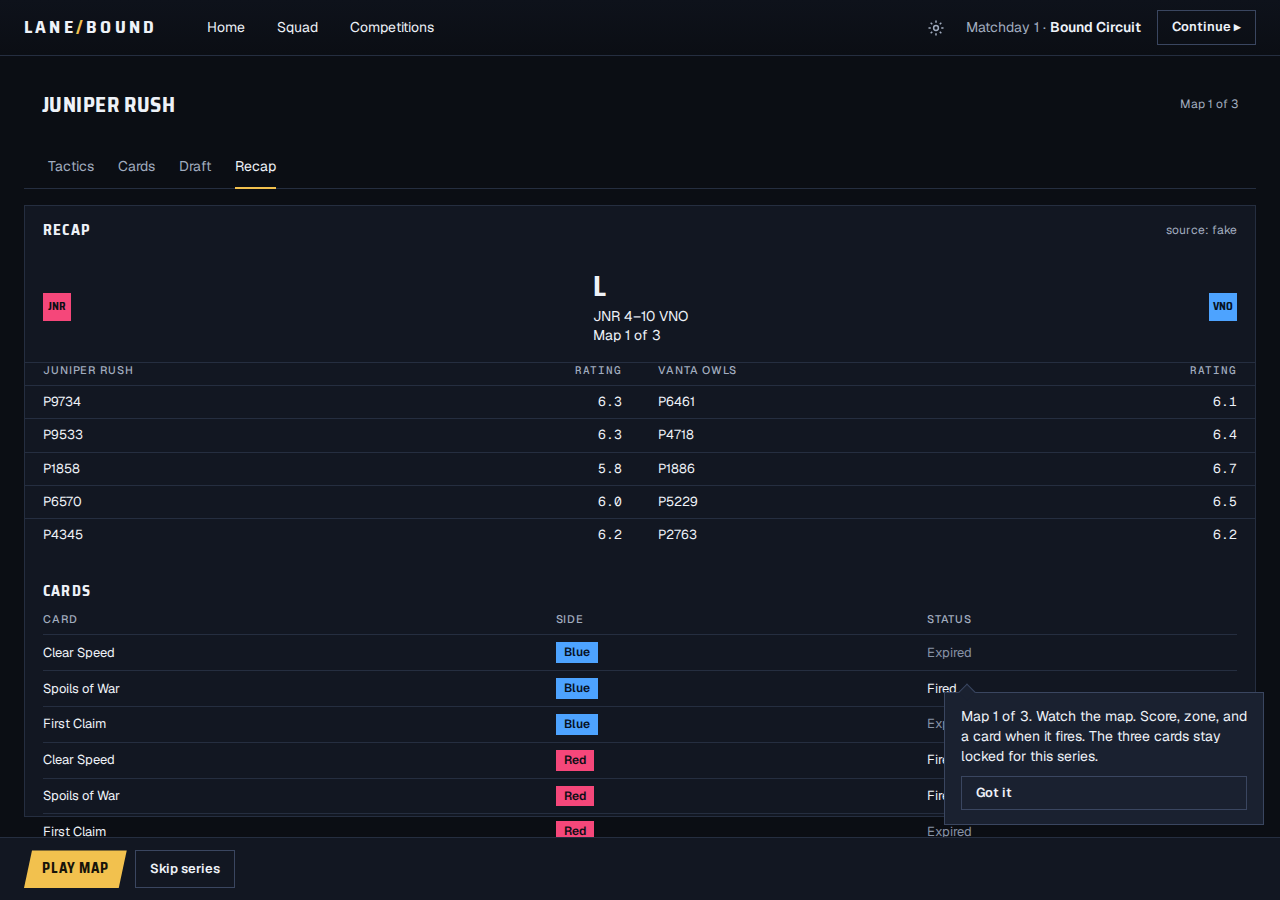
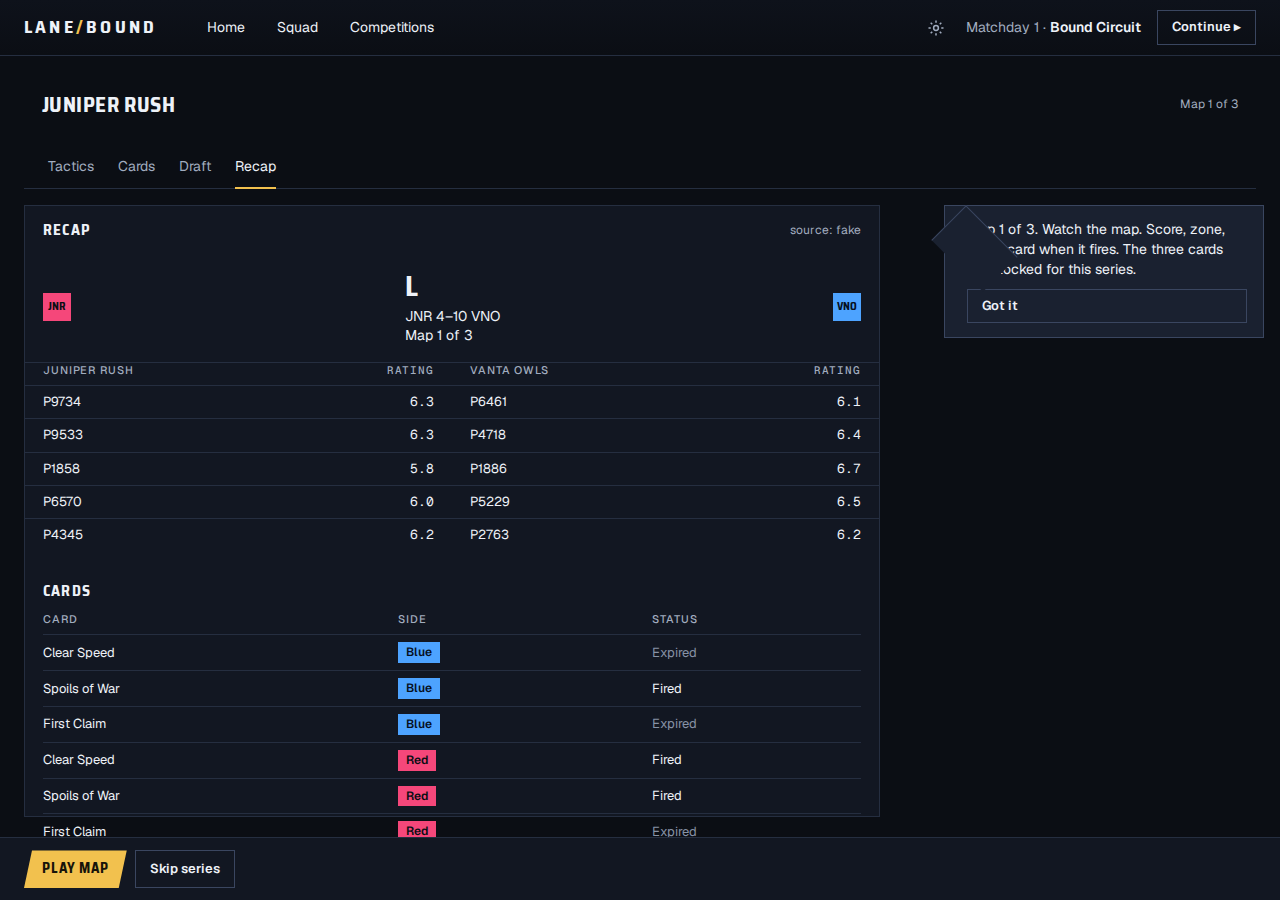
Keep the recap coach mark off the card table.
When the mark cannot sit below the panel, the recap makes room on the right and the mark sits in that rail. A real favicon answers the cold-load request.

diff --git a/apps/career/src/match.tsx b/apps/career/src/match.tsx
@@ -233,7 +233,7 @@ function CoachMark({ text, target, onClose }: { text: string; target: string; on
       const footer = document.querySelector("[data-testid='match-footer']")?.getBoundingClientRect();
       const limitBottom = (footer?.top ?? window.innerHeight) - 12;
       const avoid = Array.from(
-        document.querySelectorAll("[data-coach-avoid], [data-testid='match-tabs'], [data-testid='match-footer']"),
+        document.querySelectorAll("[data-coach-avoid], [data-testid='match-tabs'], [data-testid='match-footer'], [data-testid='card-events'], .ratecols table"),
         (el) => el.getBoundingClientRect(),
       );
       const overlaps = (top: number, left: number) =>
@@ -241,19 +241,18 @@ function CoachMark({ text, target, onClose }: { text: string; target: string; on
       const inside = (top: number, left: number) =>
         left >= 8 && top >= 8 && left + width <= window.innerWidth - 8 && top + height <= limitBottom && !overlaps(top, left);
       const aligned = Math.min(Math.max(16, rect.left), window.innerWidth - width - 16);
-      const candidates = [
-        { top: rect.bottom + 12, left: aligned, side: false },
-        { top: Math.max(16, rect.top), left: rect.right + 12, side: true },
-        { top: Math.max(16, limitBottom - height), left: Math.max(16, window.innerWidth - width - 16), side: false },
-      ];
-      let chosen = candidates.find((item) => inside(item.top, item.left));
+      const below = { top: rect.bottom + 12, left: aligned, side: false };
+      const beside = { top: Math.max(16, rect.top), left: rect.right + 12, side: true };
+      const rail = `${width + 56}px`;
+      const panel = anchor as HTMLElement;
+      const railOn = panel.style.marginRight === rail;
+      let chosen = railOn ? undefined : [below, beside].find((item) => inside(item.top, item.left));
       if (!chosen) {
-        const right = Math.max(16, window.innerWidth - width - 16);
-        let top = limitBottom - height;
-        while (top > 16 && !inside(top, right)) top -= 16;
-        chosen = inside(top, right)
-          ? { top, left: right, side: false }
-          : { top: Math.max(16, limitBottom - height), left: right, side: false };
+        if (!railOn) panel.style.marginRight = rail;
+        const again = anchor.getBoundingClientRect();
+        const left = Math.max(16, window.innerWidth - width - 16);
+        const top = Math.min(Math.max(16, again.top), Math.max(16, limitBottom - height));
+        chosen = { top, left, side: true };
       }
       const caret = chosen.side
         ? Math.min(height - 24, Math.max(16, rect.top + Math.min(rect.height, 48) / 2 - chosen.top - 6))
@@ -275,10 +274,13 @@ function CoachMark({ text, target, onClose }: { text: string; target: string; on
       scroller?.removeEventListener("scroll", place);
       window.removeEventListener("resize", place);
       observer?.disconnect();
+      document.querySelectorAll("[data-coach-target]").forEach((el) => {
+        (el as HTMLElement).style.marginRight = "";
+      });
     };
   }, [target, text]);
   return (
-    <aside ref={ref} className="coach" data-composed="coach-mark" data-testid="coach-mark" style={{ top: box.top, left: box.left }}>
+    <aside ref={ref} className={box.side ? "coach side" : "coach"} data-composed="coach-mark" data-testid="coach-mark" style={{ top: box.top, left: box.left }}>
       <span className={box.side ? "coachcaret side" : "coachcaret"} style={box.side ? { top: box.caret } : { left: box.caret }} aria-hidden="true" />
       <p>{text}</p>
       <Button variant="secondary" onClick={onClose}>

diff --git a/apps/career/e2e/cd-c6.spec.ts b/apps/career/e2e/cd-c6.spec.ts
@@ -79,17 +79,19 @@ test("the coach mark floats and leaves its target where it was", async ({ page }
   await expect(mark.locator(".coachcaret")).toBeVisible();
   const width = await mark.evaluate((el) => el.getBoundingClientRect().width);
   expect(width).toBeLessThanOrEqual(320);
-  const caretLeft = () => mark.locator(".coachcaret").evaluate((el) => el.style.left || el.style.top);
-  expect(await caretLeft()).not.toBe("");
-  const wide = await caretLeft();
+  const caretSet = await mark.locator(".coachcaret").evaluate((el) => el.style.left !== "" || el.style.top !== "");
+  expect(caretSet).toBe(true);
+  const markLeft = () => mark.evaluate((el) => Number.parseFloat(el.style.left));
+  const wideLeft = await markLeft();
   await page.setViewportSize({ width: 560, height: 800 });
-  await expect.poll(caretLeft).not.toBe(wide);
+  await expect.poll(markLeft).not.toBe(wideLeft);
   const panel = await page.getByTestId("recap").boundingBox();
   const caret = await mark.locator(".coachcaret").boundingBox();
   expect(panel).not.toBeNull();
   expect(caret).not.toBeNull();
-  expect(caret!.x + caret!.width / 2).toBeGreaterThan(panel!.x);
-  expect(caret!.x).toBeLessThan(panel!.x + panel!.width);
+  expect(caret!.y).toBeGreaterThan(panel!.y);
+  expect(caret!.y).toBeLessThan(panel!.y + panel!.height);
+  expect(Math.abs(caret!.x - (panel!.x + panel!.width))).toBeLessThan(80);
 });
 
 test("the recap leads with the result and splits ratings by team", async ({ page }) => {
@@ -293,6 +295,33 @@ test("back and forward move between screens and do not replay play", async ({ pa
     await page.getByRole("button", { name: "Continue" }).click();
   }
   await expect(page.getByTestId("map-label")).toHaveText("Map 2 of 3");
+});
+
+test("the map 1 coach mark leaves every status cell clear at 1440x900", async ({ page }) => {
+  await page.setViewportSize({ width: 1440, height: 900 });
+  await start(page);
+  await page.getByRole("button", { name: "Continue" }).click();
+  await page.getByTestId("play-map").click();
+  await expect(page.getByTestId("coach-mark")).toBeVisible();
+  const cells = page.getByTestId("card-events").locator("th:last-child, td:last-child");
+  const count = await cells.count();
+  expect(count).toBeGreaterThan(1);
+  for (let i = 0; i < count; i++) {
+    const clear = await cells.nth(i).evaluate((el) => {
+      const rect = el.getBoundingClientRect();
+      const found = document.elementFromPoint(rect.left + rect.width / 2, rect.top + rect.height / 2);
+      return !!found && (el.contains(found) || found.contains(el));
+    });
+    expect(clear).toBe(true);
+  }
+});
+
+test("a cold load gets a favicon", async ({ page }) => {
+  const response = await page.request.get("/favicon.ico");
+  expect(response.status()).toBe(200);
+  const type = response.headers()["content-type"] ?? "";
+  expect(type).toMatch(/icon|image/);
+  expect((await response.body()).byteLength).toBeGreaterThan(32);
 });
 
 test("coach marks follow the step, survive dismissal, and leave controls clear", async ({ page }) => {

diff --git a/apps/career/src/app.css b/apps/career/src/app.css
@@ -76,6 +76,7 @@ button.btn-primary:disabled {
 .coach { position: fixed; z-index: 15; width: 320px; max-width: 320px; background: var(--c-panel-2); border: 1px solid var(--c-line-2); padding: 14px 16px; display: grid; gap: 10px; }
 .coach p { margin: 0; }
 .coachcaret { position: absolute; top: -7px; width: 12px; height: 12px; background: var(--c-panel-2); border-left: 1px solid var(--c-line-2); border-top: 1px solid var(--c-line-2); transform: rotate(45deg); }
+.coach.side { padding-left: 22px; }
 .coachcaret.side { top: auto; left: -7px; }
 .result { display: flex; align-items: center; justify-content: space-between; gap: 16px; padding: 16px 18px; border-bottom: 1px solid var(--c-line); }
 .result .disp { font-size: 28px; }

diff --git a/apps/career/index.html b/apps/career/index.html
@@ -3,6 +3,8 @@
   <head>
     <meta charset="UTF-8" />
     <meta name="viewport" content="width=device-width, initial-scale=1" />
+    <link rel="icon" href="/favicon.ico" sizes="32x32" />
+    <link rel="icon" href="/favicon.svg" type="image/svg+xml" />
     <title>Lanebound</title>
   </head>
   <body>
